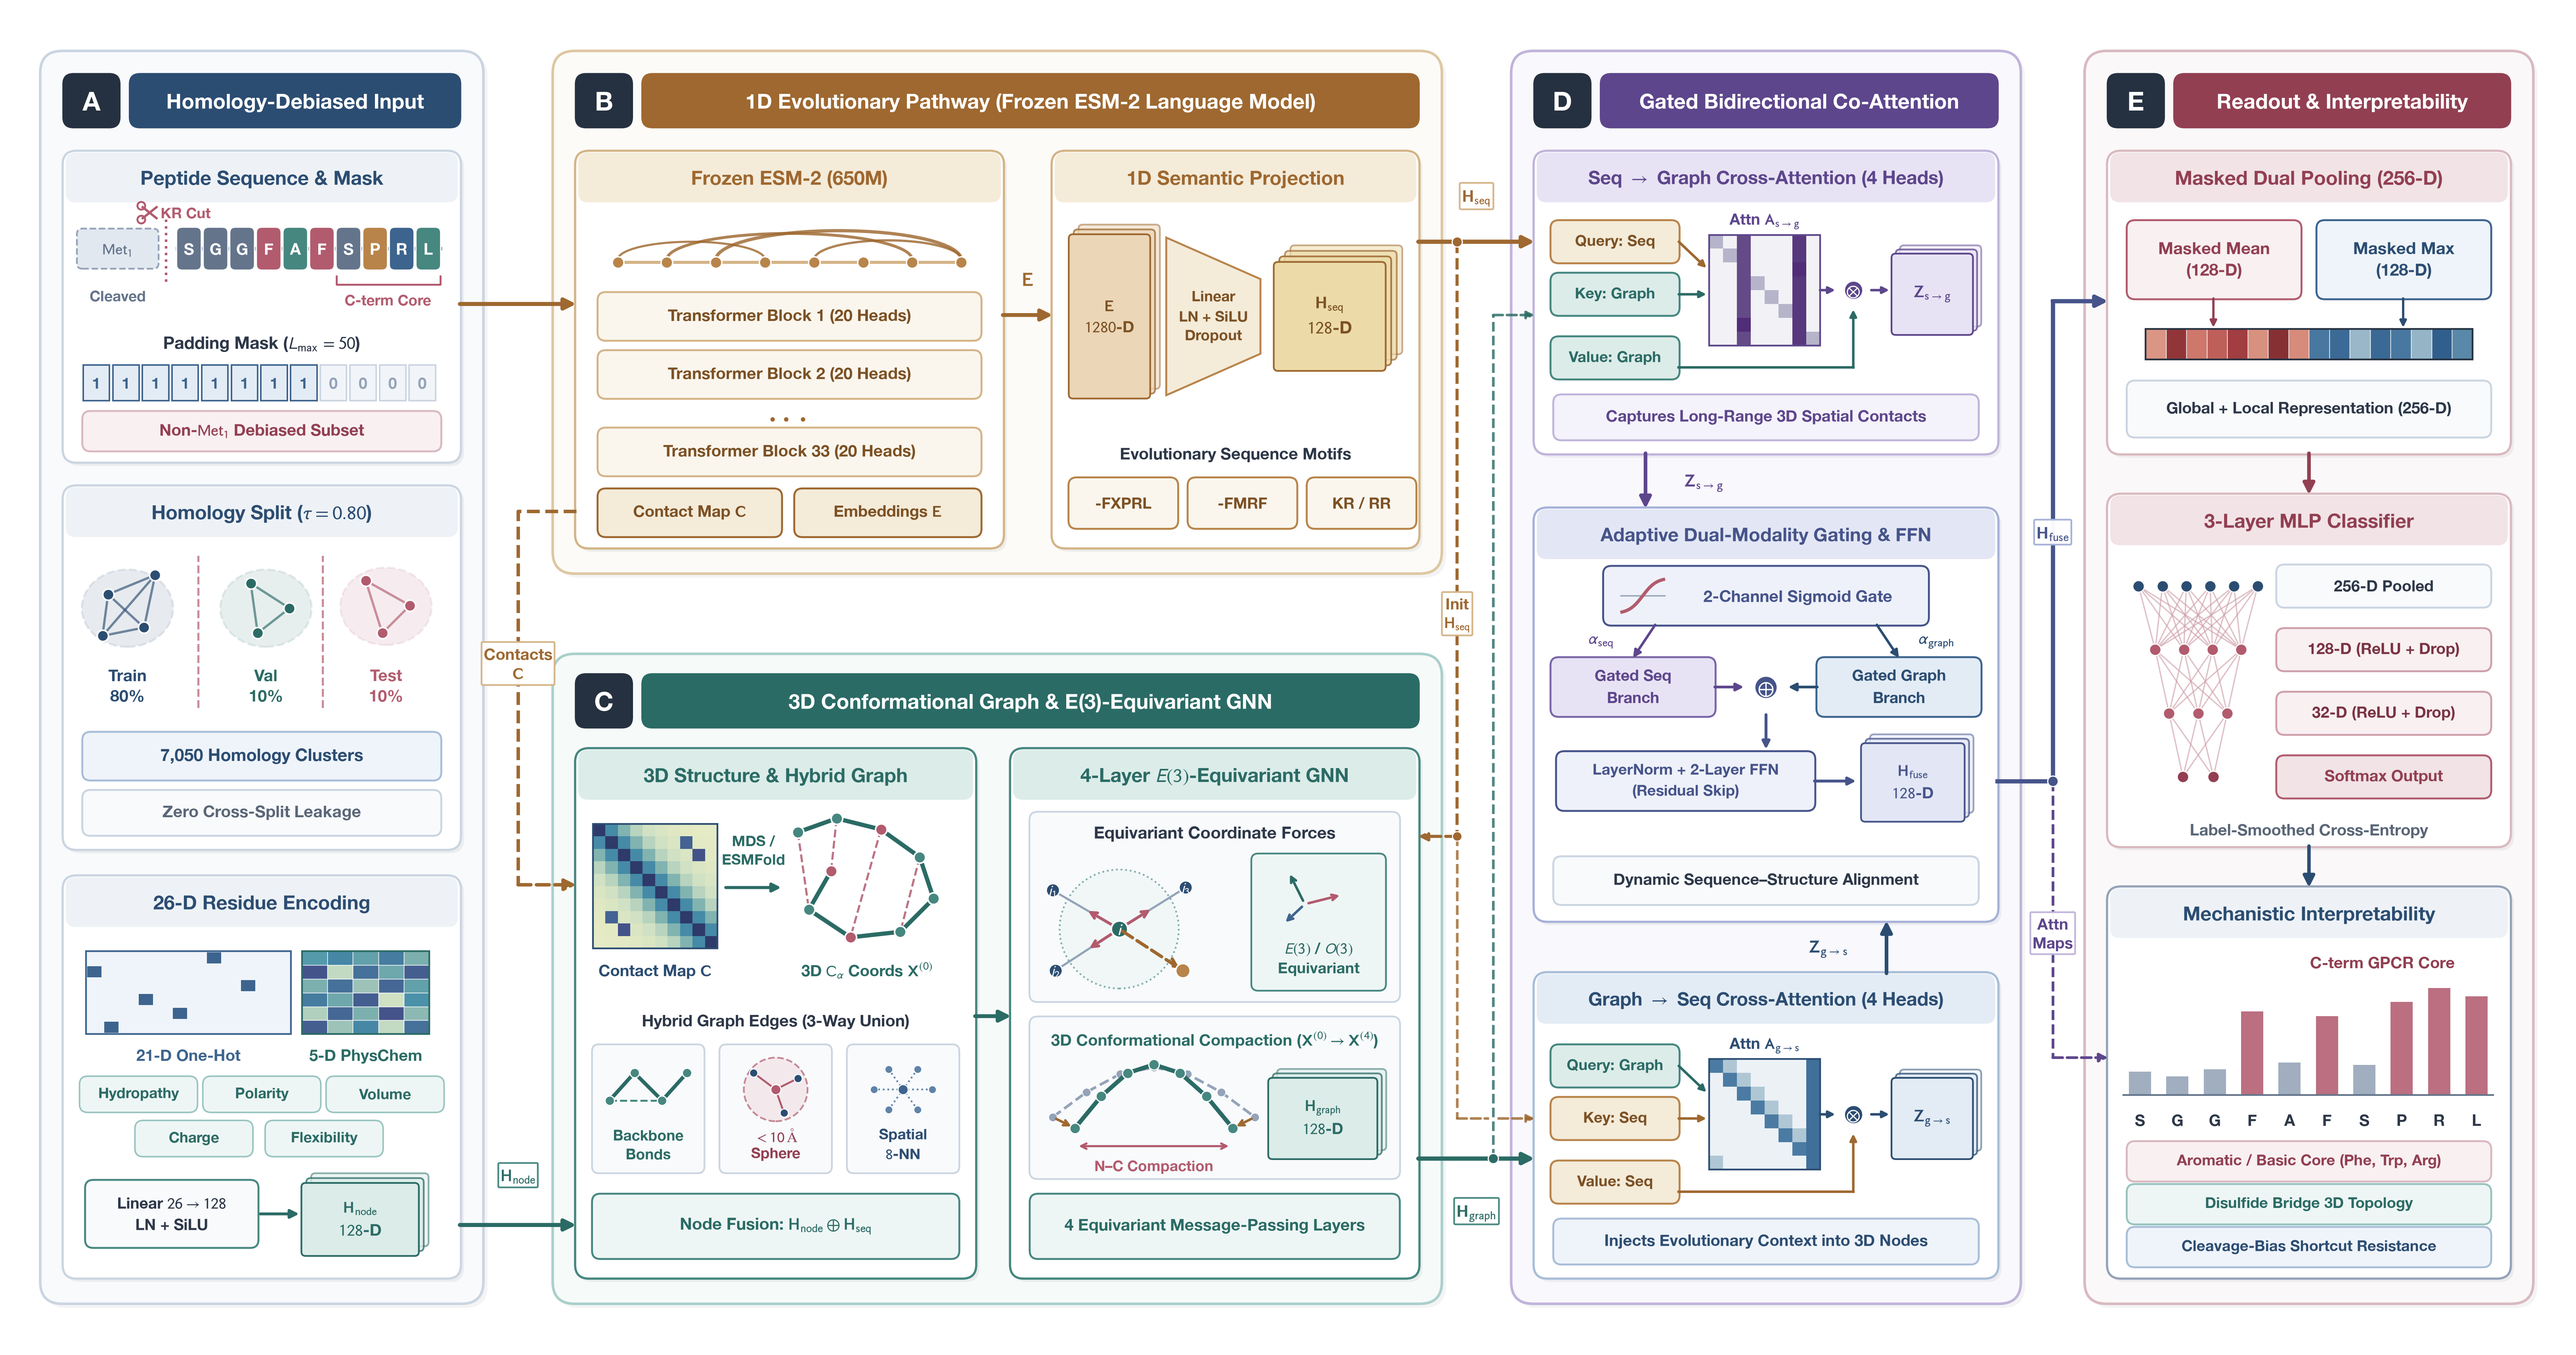
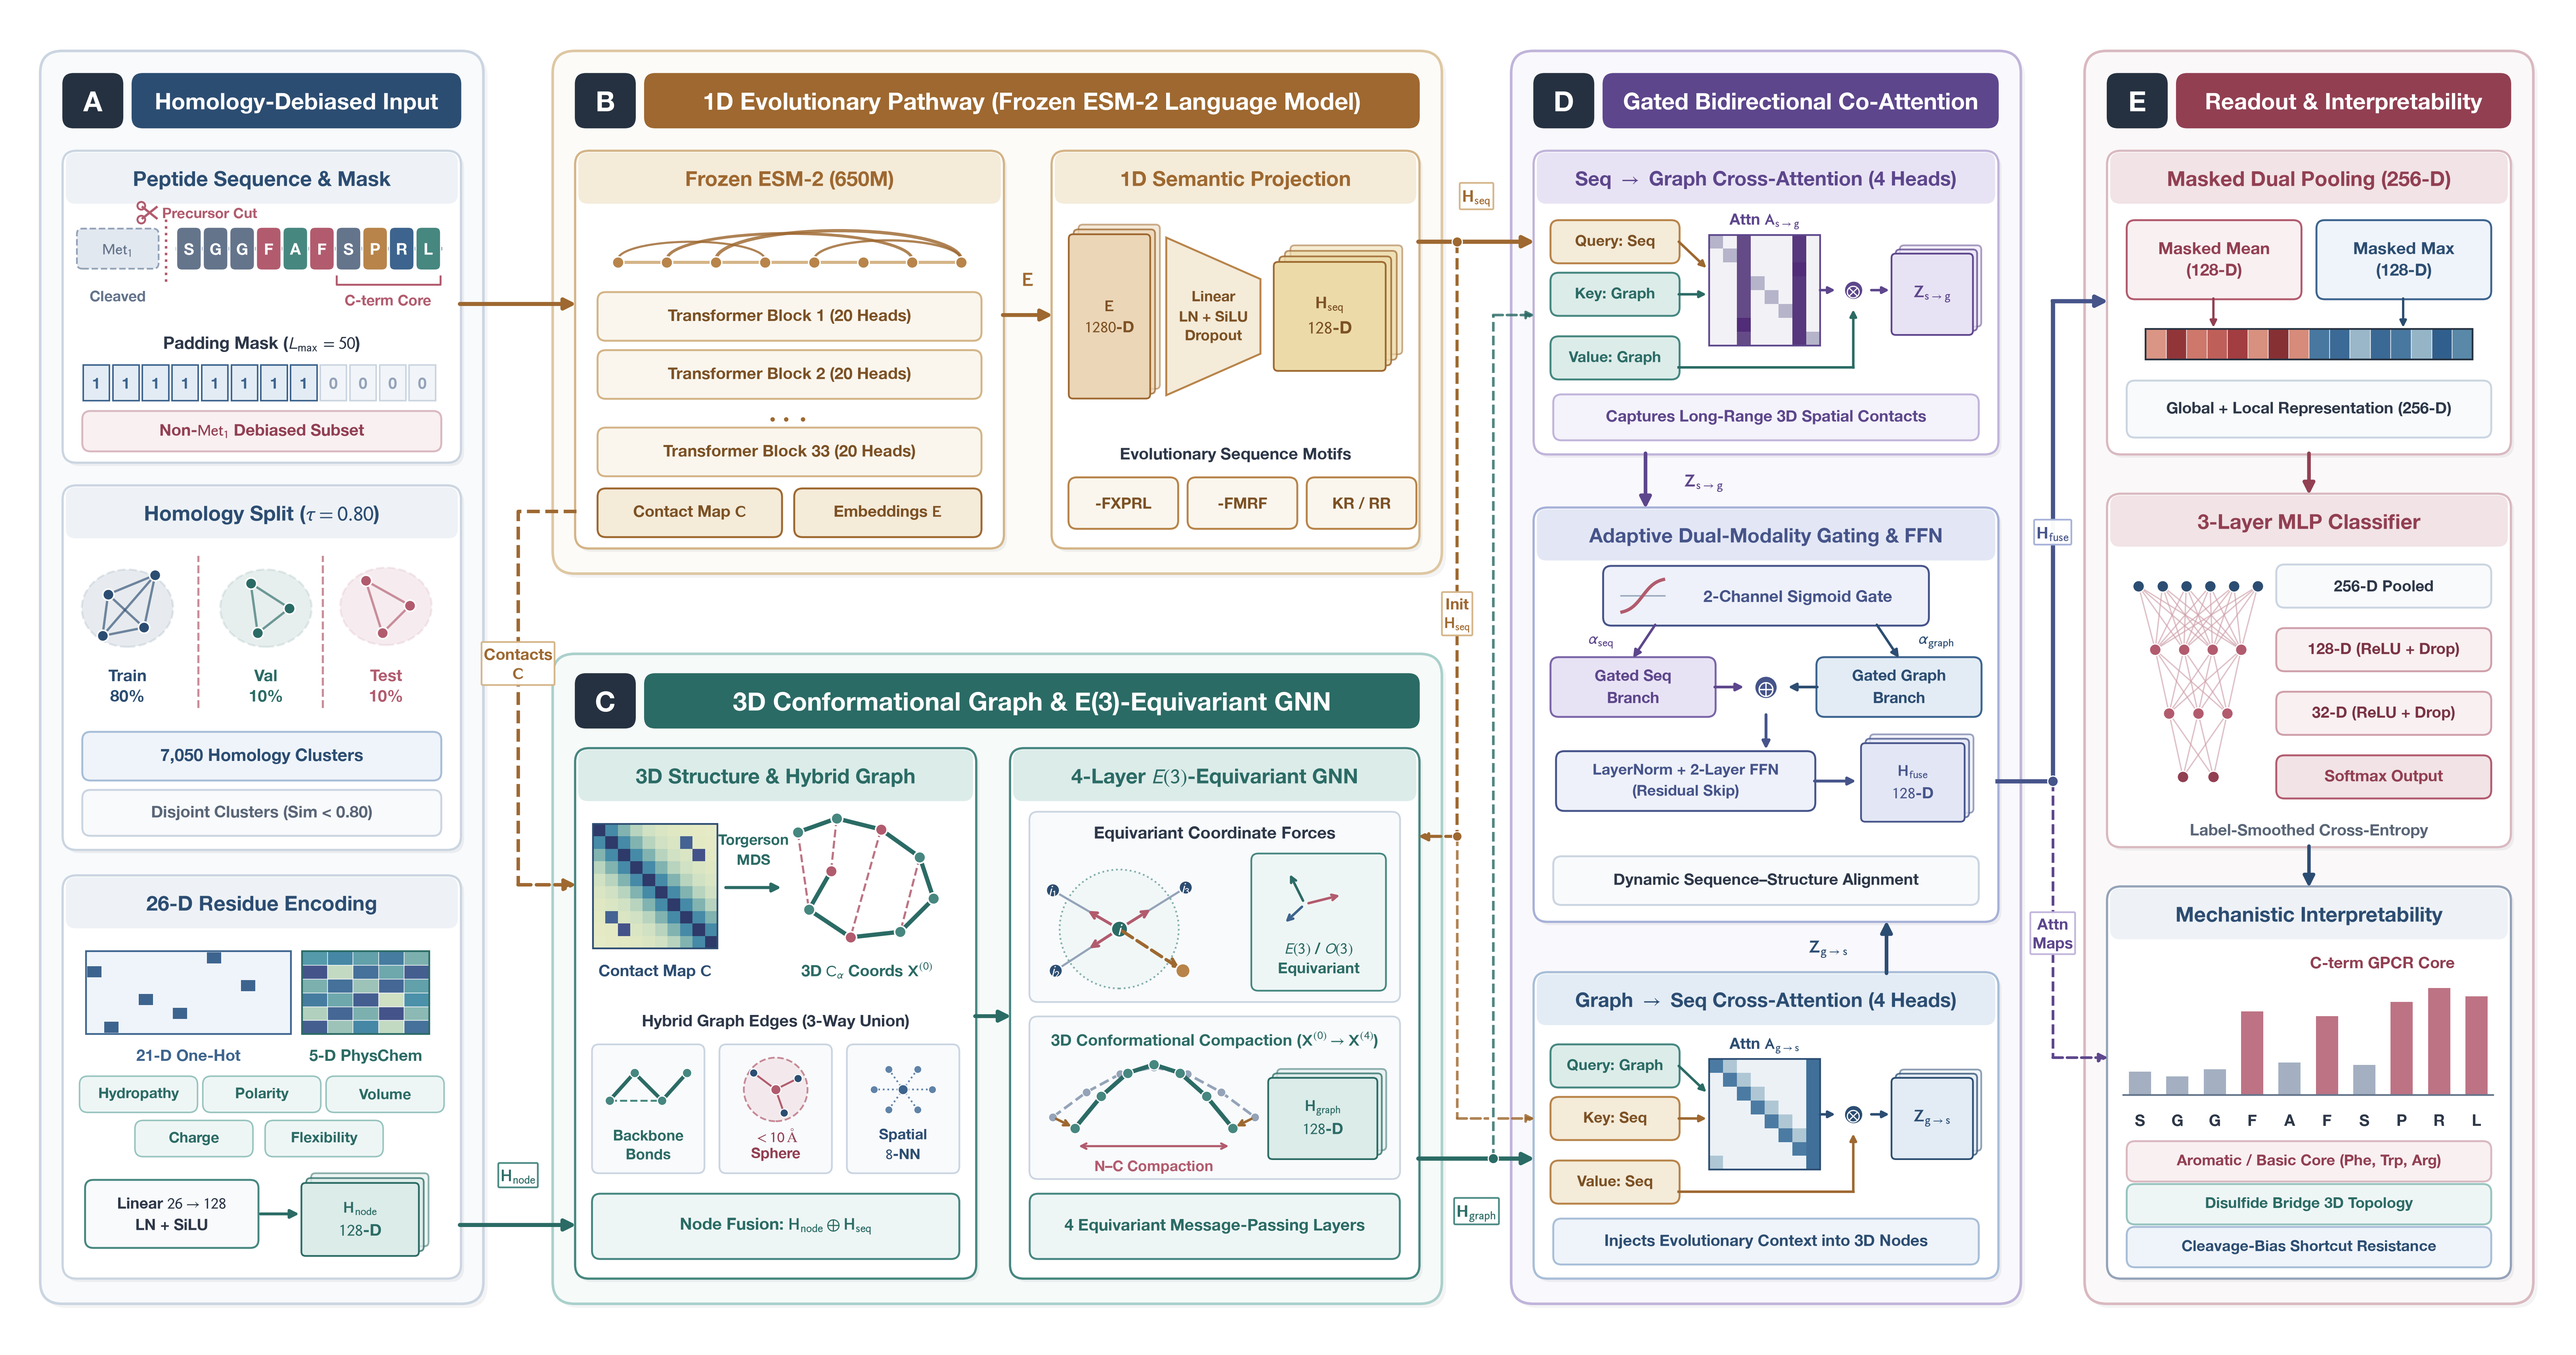
Update architecture diagram and figure generation scripts

diff --git a/generate_all_figures.py b/generate_all_figures.py
@@ -203,7 +203,7 @@ def make_fig1_dataset():
             label="Negative Controls")
     axD.bar(positions + w_d / 2, pos_m_freq, width=w_d * 0.90, color=BAR_ROSE, edgecolor="none", lw=0,
             label="Mature Neuropeptides")
-    axD.annotate("65.47% Neg vs. 1.99% Pos\n(32.9× N-terminal $\\mathrm{Met}_1$ shortcut!)",
+    axD.annotate("65.47% Neg vs. 1.99% Pos\n(32.9× N-terminal $\\mathrm{Met}_1$ disparity)",
                  xy=(1 - w_d / 2, 65.5), xytext=(3.3, 55.0),
                  fontsize=8.2, fontweight="bold", color=NAVY,
                  bbox=dict(boxstyle="round,pad=0.35", facecolor="#FAF3F3", edgecolor=BAR_ROSE, lw=0.9),
@@ -778,7 +778,8 @@ def make_fig5_cases():
         step = 1 if L <= 14 else 2
         for ax_h, im in [(ax1, im1), (ax2, im2)]:
             ax_h.set_xticks(np.arange(0, L, step))
-            ax_h.set_xticklabels([res_ticks[k] for k in range(0, L, step)], rotation=45, ha="right", fontsize=7.2)
+            ax_h.set_xticklabels([res_ticks[k] for k in range(0, L, step)],
+                                 rotation=45, ha="right", va="top", rotation_mode="anchor", fontsize=7.2)
             ax_h.set_yticks(np.arange(0, L, step))
             ax_h.set_yticklabels([res_ticks[k] for k in range(0, L, step)], fontsize=7.2)
             plt.colorbar(im, ax=ax_h, fraction=0.046, pad=0.04)
@@ -804,7 +805,7 @@ def make_fig5_cases():
             Patch(facecolor=BAR_BLUE, edgecolor="none", label=f"Internal Basic Motif ({res_ticks[extra_idx]})"),
         ]
         ax3.set_xticks(x_r)
-        ax3.set_xticklabels(res_ticks, rotation=45, ha="right", fontsize=7.3, fontweight="bold")
+        ax3.set_xticklabels(res_ticks, rotation=90, ha="center", va="top", fontsize=7.3, fontweight="bold")
         ax3.set_ylim(0, max(comb_norm) * 1.38)
         ax3.set_ylabel("Marginal Attribution ($\\times$ Uniform)")
         ax3.set_title("Combined Residue Attribution Profile", fontsize=12.2, fontweight="bold", pad=10)
@@ -1263,7 +1264,7 @@ def make_toc_graphic():
 
         _pill(8.5, 22.0, 78.0, 9.8, "7,050 Homology Clusters",
               bg=C_NAVY_TINT, edge=C_NAVY_BD, fg=C_NAVY_PRI, fontsize=4.0)
-        _pill(8.5, 9.2, 78.0, 9.8, "Zero Cross-Split Leakage",
+        _pill(8.5, 9.2, 78.0, 9.8, "Disjoint Splits (Sim < 0.80)",
               bg="#F8FAFC", edge="#CBD5E1", fg=C_SLATE_MUTED, fontsize=4.0)
 
         # STAGE 2 (Center Hero): NeuroEGNN Dual-Stream Architecture (x = 100.5 .. 226.5)

diff --git a/generate_nc_architecture.py b/generate_nc_architecture.py
@@ -240,7 +240,7 @@ def build_architecture_figure():
     ax.plot([0.93, 1.03], [8.12, 8.20], color=CRIMSON_MAIN, lw=1.2, zorder=6)
     ax.plot([0.93, 1.03], [8.20, 8.12], color=CRIMSON_MAIN, lw=1.2, zorder=6)
     ax.scatter([0.92, 0.92], [8.11, 8.21], s=16, facecolors='none', edgecolors=CRIMSON_MAIN, lw=1.0, zorder=6)
-    ax.text(1.24, 8.16, 'KR Cut', ha='center', va='center', fontsize=7.6, fontweight='bold', color=CRIMSON_MAIN, zorder=6)
+    ax.text(1.07, 8.16, 'Precursor Cut', ha='left', va='center', fontsize=7.4, fontweight='bold', color=CRIMSON_MAIN, zorder=6)
 
     # Mature peptide bead ribbon (S-G-G-F-A-F-S-P-R-L)
     seq_tokens = ['S', 'G', 'G', 'F', 'A', 'F', 'S', 'P', 'R', 'L']
@@ -309,8 +309,8 @@ def build_architecture_figure():
                  '7,050 Homology Clusters',
                  bg=NAVY_TINT, edge=NAVY_BORDER, fg=NAVY_PRIMARY, fontsize=8.8)
     add_pill_box(ax, 0.50, 3.66, 2.58, 0.32,
-                 'Zero Cross-Split Leakage',
-                 bg='#F8FAFC', edge='#CBD5E1', fg=SLATE_MUTED, fontsize=8.5)
+                 'Disjoint Clusters (Sim < 0.80)',
+                 bg='#F8FAFC', edge='#CBD5E1', fg=SLATE_MUTED, fontsize=8.4)
 
     # Card A3: 26-D Residue Biochemical Feature Encoding (y = 0.46 .. 3.36)
     add_card(ax, 0.36, 0.46, 2.86, 2.90, title='26-D Residue Encoding',
@@ -450,7 +450,7 @@ def build_architecture_figure():
             fontsize=8.2, fontweight='bold', color=NAVY_PRIMARY, zorder=5)
 
     draw_routed_arrow(ax, [(5.14, 3.28), (5.54, 3.28)], color=TEAL_DARK, lw=1.6, mutation_scale=9)
-    ax.text(5.34, 3.55, 'MDS /\nESMFold', ha='center', va='center',
+    ax.text(5.34, 3.55, 'Torgerson\nMDS', ha='center', va='center',
             fontsize=7.6, fontweight='bold', color=TEAL_DARK, linespacing=1.06, zorder=5)
 
     pts_3d = [
